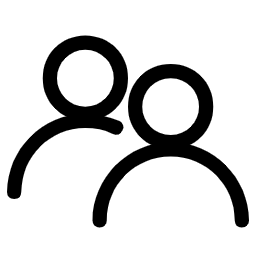
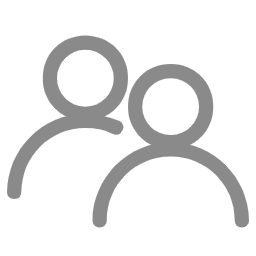
美化了登录界面

Changed region(s): [[0.0, 0.125, 1.0, 0.9062]]

diff --git a/src/components/login.vue b/src/components/login.vue
@@ -7,11 +7,13 @@
     <el-container style="height: 100%;">
         <el-header style="height: auto;">
             <!--顾客身份-->
-            <el-tooltip class="item" effect="dark" content="我是顾客" placement="bottom">
+            <el-tooltip class="item" effect="light" content="我是顾客" placement="bottom">
                 <el-image 
                 :src="customerIcon"
                 style="width: 10%;position:absolute;top:20%"
-                @click="changeToCustomer"
+                @click="changeToCustomer(1)"
+                @mouseover="changeToCustomer(2)" 
+                @mouseout="changeToCustomer(3)"
                 ></el-image>
             </el-tooltip>
             
@@ -21,11 +23,13 @@
             text-align: center;">
             登录</p>
             <!--房东身份-->
-            <el-tooltip class="item" effect="dark" content="我是房东" placement="bottom">
+            <el-tooltip class="item" effect="light" content="我是房东" placement="bottom">
                 <el-image 
                 :src="hostIcon"
                 style="width: 10%;position:absolute;top:20%;right: 10%;"
-                @click="changeToHost"
+                @click="changeToHost(1)"
+                @mouseover="changeToHost(2)" 
+                @mouseout="changeToHost(3)"
                 ></el-image>
             </el-tooltip>
             <p>登录“归宿”，体验专属于你的精彩世界！</p>
@@ -65,7 +69,11 @@
                         <el-checkbox label="记住我" name="type"></el-checkbox>
                     </el-col>
                     <el-col :span="11" style="width: auto;margin-left: 40px;">
-                        <el-link href="https://element.eleme.io" target="_blank" :underline="false">忘记密码？</el-link>
+                        <el-button 
+                        type="text"
+                        @click="forgetPassword"
+                        >
+                            忘记密码？</el-button>
                     </el-col>
                 </el-form-item>
                 
@@ -111,17 +119,72 @@ export default {
                 console.log('verifycode:',response)
             })
         },
-        changeToCustomer(){
-            console.log('切换为顾客登录');
-            this.customerLogin=true;
-            this.customerIcon=require('@/assets/customerIconSelected.png');
-            this.hostIcon=require('@/assets/hostIcon.png');
+        changeToCustomer(index){
+            if(index==1){
+                if(this.customerLogin){
+                    return;
+                }
+                this.$message({
+                    message: '已切换为顾客登录',
+                    type: 'success'
+                });
+                console.log('切换为顾客登录');
+                this.customerLogin=true;
+                this.customerIcon=require('@/assets/customerIconSelected.png');
+                this.hostIcon=require('@/assets/hostIcon.png');
+            }
+            else if (index==2&&!this.customerLogin){
+                //鼠标移动上来
+                this.customerIcon=require('@/assets/customerIconHover.png');
+            }
+            else if (index==3){
+                //鼠标移动出去
+                if(this.customerLogin){
+                    this.customerIcon=require('@/assets/customerIconSelected.png');
+                }
+                else{
+                    this.customerIcon=require('@/assets/customerIcon.png');
+                }
+            }
+            
         },
-        changeToHost(){
-            console.log('切换为房东登录');
-            this.customerLogin=false;
-            this.customerIcon=require('@/assets/customerIcon.png');
-            this.hostIcon=require('@/assets/hostIconSelected.png');
+        changeToHost(index){
+            if(index==1){
+                if(!this.customerLogin){
+                    return;
+                }
+                this.$message({
+                    message: '已切换为房东登录',
+                    type: 'success'
+                });
+                console.log('切换为房东登录');
+                this.customerLogin=false;
+                this.customerIcon=require('@/assets/customerIcon.png');
+                this.hostIcon=require('@/assets/hostIconSelected.png');
+            }
+            else if (index==2&&this.customerLogin){
+                //鼠标移动上来
+                this.hostIcon=require('@/assets/hostIconHover.png');
+            }
+            else if (index==3){
+                //鼠标移动出去
+                if(!this.customerLogin){
+                    this.hostIcon=require('@/assets/hostIconSelected.png');
+                }
+                else{
+                    this.hostIcon=require('@/assets/hostIcon.png');
+                }
+            }
+
+        },
+        forgetPassword(){
+            /*
+            忘记密码
+            */
+           console.log('忘记密码按钮被触发')
+            this.$router.replace('/forgetPassword');
+            //关闭登录界面
+            this.$emit('closeLogin');
         }
     }
 }

diff --git a/src/components/navigate.vue b/src/components/navigate.vue
@@ -96,6 +96,7 @@
           </div>
             <login-name
             @logins="changeLoginState"
+            @closeLogin="closeLogin"
             ref="loginComponent"
             />
           <div slot="footer">
@@ -191,7 +192,13 @@ export default {
       //更新验证码
 
     },
-    
+    closeLogin(){
+      /*
+      关闭登录窗口
+      */
+      console.log('登录窗口被关闭');
+      this.dialogTableVisible=false;
+    },
     isLegalPhone(){
         /*
         判断输入的手机号是否合法

diff --git a/src/router/index.js b/src/router/index.js
@@ -25,6 +25,12 @@ const routes = [
     name:'Register',
     component: () => import('../views/Register.vue')
   },
+  //忘记密码路由
+  {
+    path:'/forgetPassword',
+    name:'forgetPassword',
+    component: () => import('../views/ForgetPassword.vue')
+  },
   {
     path:'/favoritePage',
     name:'favoritePage',
@@ -58,6 +64,7 @@ router.beforeEach((to, from, next) => {
   || to.path==='/' 
   || to.path==='/register'
   || to.path==='/license'
+  || to.path==='/forgetPassword'
   ) {
     next();
   } else {

diff --git a/src/api/host.js b/src/api/host.js
@@ -4,7 +4,7 @@
 
 import request from '@/utils/request'
 
-export function customerLogin(data) {
+export function hostLogin(data) {
     /*
     房东登录
     */
